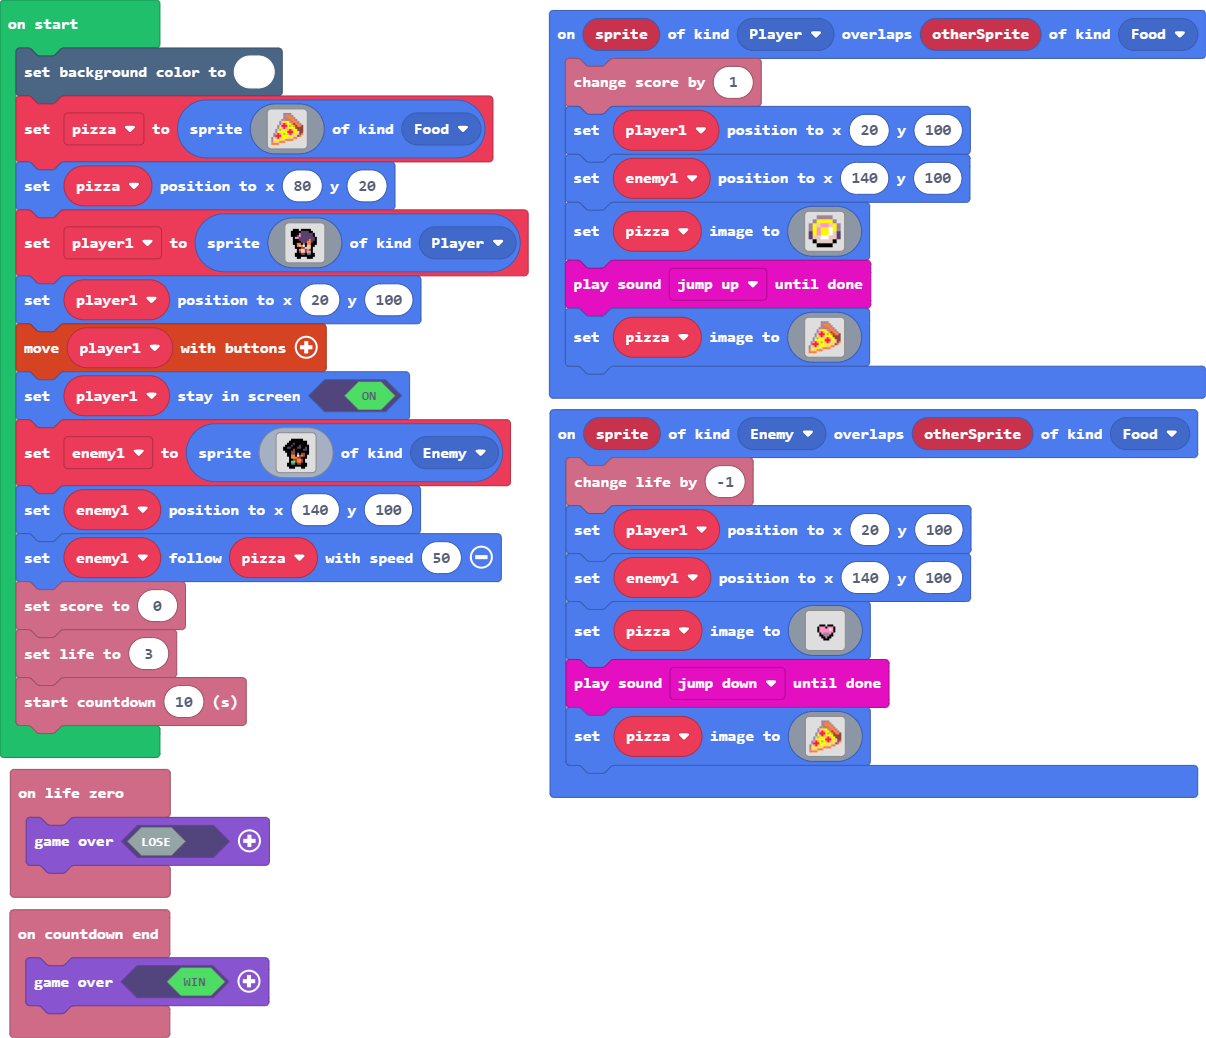
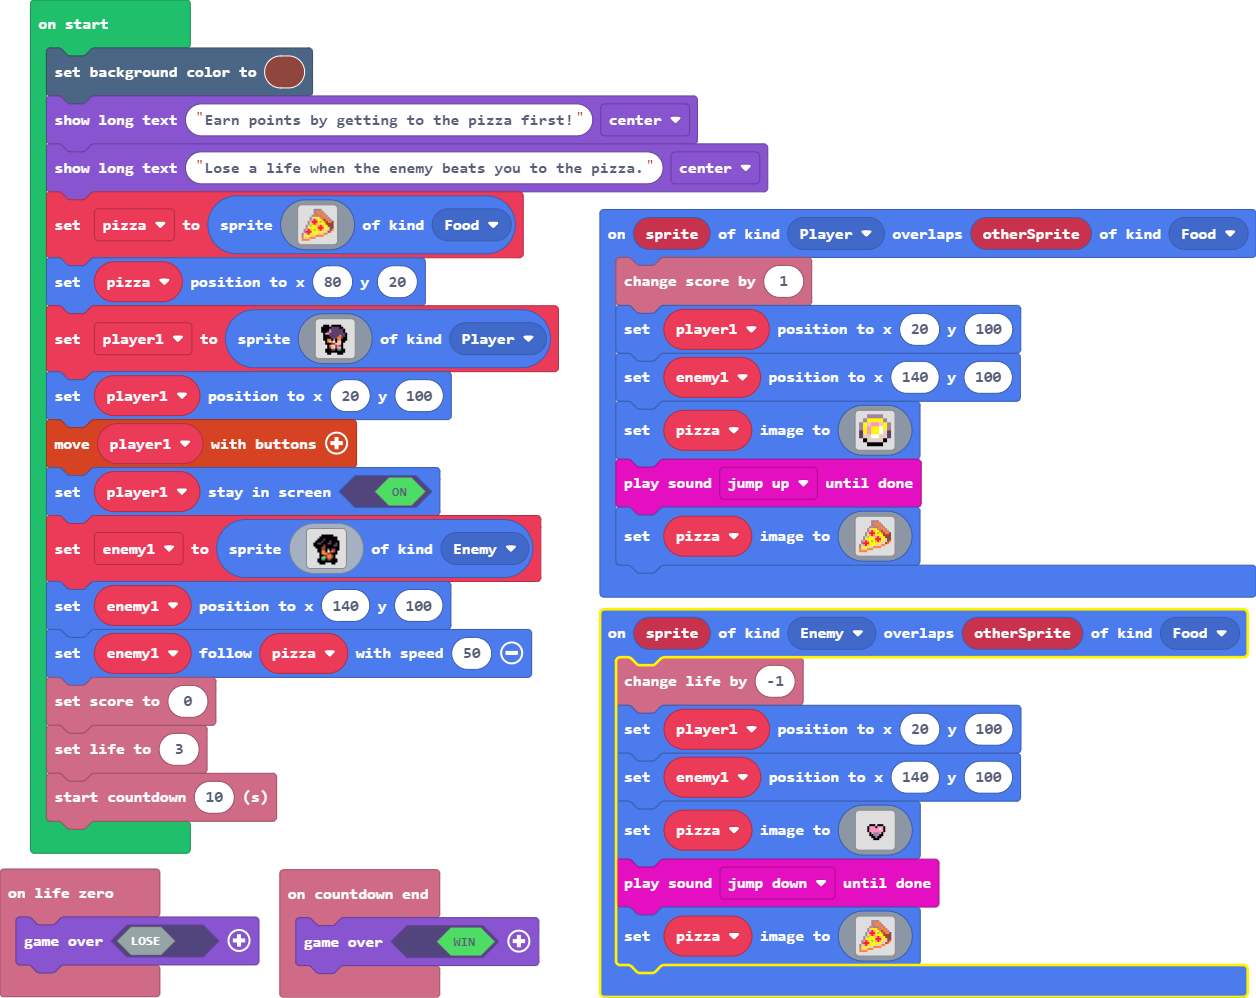
Update main.blocks, main.ts

diff --git a/main.ts b/main.ts
@@ -86,7 +86,9 @@ sprites.onOverlap(SpriteKind.Player, SpriteKind.Food, function (sprite, otherSpr
 let enemy1: Sprite = null
 let player1: Sprite = null
 let pizza: Sprite = null
-scene.setBackgroundColor(1)
+scene.setBackgroundColor(14)
+game.showLongText("Earn points by getting to the pizza first!", DialogLayout.Center)
+game.showLongText("Lose a life when the enemy beats you to the pizza.", DialogLayout.Center)
 pizza = sprites.create(img`
     . . . . . . b b b b . . . . . . 
     . . . . . . b 4 4 4 b . . . . . 
